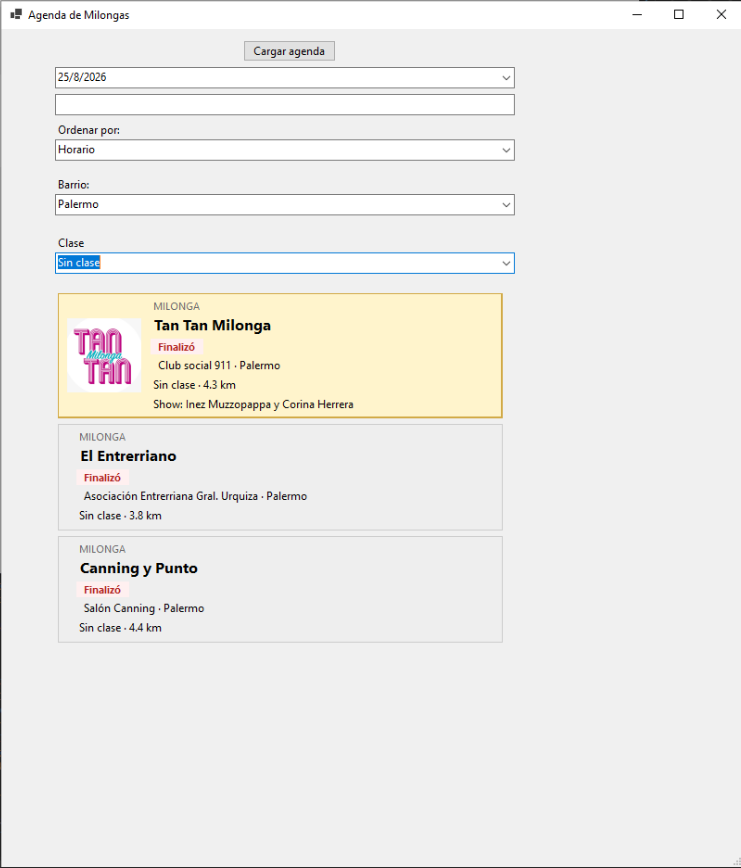
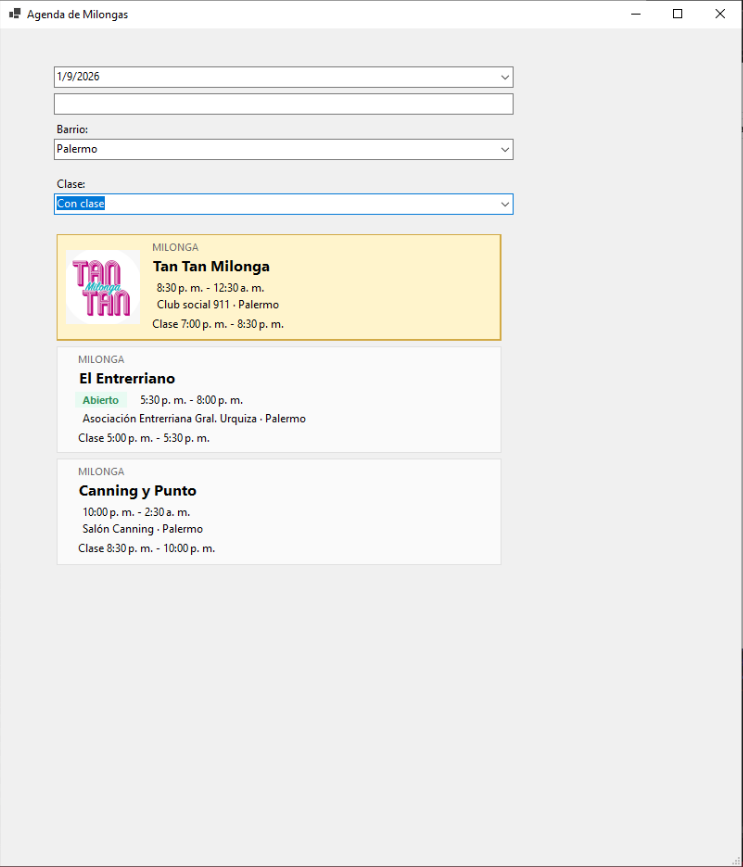
Actualiza documentación y capturas del proyecto

diff --git a/README.md b/README.md
@@ -1,8 +1,10 @@
 # Agenda de Milongas de Buenos Aires
 
-Aplicación de escritorio desarrollada en C# y .NET 8 para consultar, filtrar y explorar la agenda de milongas de Buenos Aires.
+Aplicación de escritorio desarrollada en **C# y .NET 8** para consultar, filtrar y explorar la agenda de milongas de Buenos Aires.
 
-La aplicación obtiene información pública desde Hoy Milonga, procesa los eventos disponibles y los presenta en una interfaz WinForms con carga progresiva, filtros, cálculo de distancias y vistas de detalle.
+La aplicación obtiene información pública desde **Hoy Milonga** mediante navegación automatizada y procesamiento de HTML, y presenta los eventos en una interfaz **Windows Forms** con carga automática y progresiva, filtros, vistas de detalle y cálculo de distancias.
+
+El proyecto busca centralizar la información útil de cada milonga en una interfaz simple, permitiendo consultar rápidamente qué eventos hay disponibles, dónde se realizan, sus horarios, clases y demás información relevante.
 
 ## Capturas
 
@@ -20,19 +22,24 @@ La aplicación obtiene información pública desde Hoy Milonga, procesa los even
 
 ## Funcionalidades
 
-- Carga progresiva de la agenda.
-- Navegación por fechas disponibles.
+- Carga automática de la agenda al abrir la aplicación.
+- Carga progresiva de los eventos para mostrar resultados sin esperar a que finalice todo el proceso.
+- Navegación por las fechas disponibles.
+- Selección automática del día actual al abrir la agenda.
 - Búsqueda por nombre, salón o barrio.
 - Filtro por barrio.
-- Filtro por eventos con o sin clase.
-- Ordenamiento por horario o distancia.
+- Filtro por eventos con clase o sin clase.
+- Ordenamiento cronológico automático de los eventos.
 - Identificación de eventos destacados, abiertos, finalizados y cancelados.
 - Visualización de modalidad de entrada y eventos especiales.
 - Vista detallada de cada milonga.
-- Extracción de dirección, coordenadas, organizadores, descripción, contactos, imágenes y mapa.
-- Caché local de detalles para reducir navegaciones repetidas y mejorar los tiempos de carga.
-- Precarga de datos de los días siguientes.
-- Manejo asincrónico de operaciones y cancelación de búsquedas anteriores.
+- Extracción de horarios, dirección, coordenadas, organizadores, descripción, contactos e imágenes.
+- Acceso al mapa y ubicación del evento.
+- Cálculo de distancia disponible en la vista de detalle.
+- Obtención de información detallada bajo demanda para evitar penalizar la carga inicial de la agenda.
+- Recuperación mediante reintentos ante determinadas redirecciones inesperadas del sitio fuente.
+- Manejo asincrónico de las operaciones de navegación y actualización de la interfaz.
+- Cancelación de búsquedas anteriores para evitar actualizaciones innecesarias.
 
 ## Tecnologías
 
@@ -45,11 +52,11 @@ La aplicación obtiene información pública desde Hoy Milonga, procesa los even
 
 ## Arquitectura
 
-La solución está dividida principalmente en dos proyectos:
+La solución está dividida principalmente en dos proyectos con responsabilidades diferenciadas.
 
 ### Milongas.App
 
-Aplicación WinForms responsable de la interfaz de usuario.
+Aplicación Windows Forms responsable de la interfaz de usuario y de la interacción con la agenda.
 
 Incluye:
 
@@ -57,23 +64,26 @@ Incluye:
 - tarjetas de eventos;
 - filtros;
 - búsqueda;
+- navegación por fechas;
 - vista de detalle;
 - estados de carga;
 - interacción del usuario.
 
 ### Milongas.Extractor
 
-Biblioteca de clases responsable de obtener, procesar y organizar los datos.
+Biblioteca de clases responsable de obtener, procesar y organizar los datos utilizados por la aplicación.
 
 Incluye:
 
-- navegación con Playwright;
-- extracción de HTML;
+- navegación automatizada con Playwright;
+- obtención de HTML dinámico;
 - parsing con HtmlAgilityPack;
-- modelos;
-- filtros;
+- extracción de agenda y detalles;
+- modelos de dominio;
+- filtrado y ordenamiento;
 - cálculo de distancias;
-- caché de detalles.
+- manejo de contextos de navegación;
+- caché local de datos de detalle.
 
 ## Flujo general
 
@@ -82,7 +92,7 @@ Hoy Milonga
     ↓
 BrowserService / Playwright
     ↓
-HtmlExtractor
+HtmlExtractor / MilongaDetalleExtractor
     ↓
 HoyMilongaService
     ↓
@@ -91,36 +101,85 @@ AgendaService / DistanciaService
 Milongas.App
 ```
 
-La agenda se obtiene progresivamente. El primer día puede mostrarse antes de completar la carga del resto, mientras los siguientes eventos se procesan y precargan.
+La agenda comienza a cargarse automáticamente al abrir la pantalla de milongas.
+
+Los eventos se obtienen progresivamente por fecha. Esto permite mostrar el primer conjunto de resultados mientras la aplicación continúa procesando el resto de los días disponibles.
+
+La información que solamente existe en la página individual de una milonga se obtiene bajo demanda cuando el usuario abre su vista de detalle.
 
 ## Desafíos técnicos
 
-Durante el desarrollo se abordaron varios problemas relacionados con la obtención y procesamiento de datos dinámicos:
+Durante el desarrollo se abordaron distintos problemas relacionados con la navegación web, la extracción de contenido dinámico y la actualización de una aplicación de escritorio.
 
-- **Carga progresiva:** la agenda se procesa por día para poder mostrar resultados antes de finalizar la carga completa.
-- **Contenido dinámico:** Playwright permite navegar e interactuar con el sitio antes de procesar el HTML con HtmlAgilityPack.
-- **Carga de detalles:** la información disponible únicamente en la página individual de cada evento se obtiene bajo demanda y se precarga cuando es posible.
-- **Caché local:** determinados datos de detalle se almacenan localmente para evitar navegaciones repetidas y reducir los tiempos de carga.
-- **Concurrencia y asincronismo:** las operaciones de navegación y actualización de la interfaz se coordinan de forma asincrónica para mantener la aplicación responsiva.
-- **Búsqueda con debounce:** las búsquedas de texto esperan brevemente antes de actualizar los resultados, evitando reprocesar la agenda por cada tecla presionada.
+### Carga progresiva
+
+La agenda se procesa por día para poder mostrar los primeros resultados antes de finalizar la obtención completa de los eventos disponibles.
+
+Esto reduce el tiempo percibido de espera y permite comenzar a utilizar la aplicación mientras continúa el procesamiento.
+
+### Contenido web dinámico
+
+El sitio fuente genera parte de su contenido dinámicamente.
+
+Para obtener los datos se utiliza **Microsoft Playwright**, que permite navegar e interactuar con el sitio como un navegador real antes de procesar el HTML resultante.
+
+Posteriormente, **HtmlAgilityPack** se utiliza para recorrer y extraer la información relevante del documento.
+
+### Extracción adaptable
+
+Los datos de la agenda y los detalles se extraen utilizando la estructura semántica disponible en el HTML.
+
+Durante el desarrollo fue necesario adaptar los extractores ante cambios en el formato de horarios, clases y direcciones del sitio fuente.
+
+### Carga de detalles bajo demanda
+
+Parte de la información de una milonga solamente se encuentra disponible en su página individual.
+
+En lugar de descargar todos esos detalles durante la carga inicial, la aplicación los obtiene cuando el usuario abre un evento.
+
+Esto evita realizar una gran cantidad de navegaciones innecesarias y permite mantener una carga inicial más rápida.
+
+### Manejo de redirecciones
+
+El sitio fuente puede redirigir de manera intermitente algunas solicitudes de detalle hacia una página de inicio de sesión.
+
+La aplicación detecta esta situación y puede recrear el contexto de navegación y volver a intentar la solicitud de forma controlada.
+
+Este mecanismo permite recuperarse de determinados fallos transitorios sin interrumpir inmediatamente la experiencia del usuario.
+
+### Concurrencia y asincronismo
+
+Las operaciones de navegación y actualización de la interfaz se coordinan de forma asincrónica para evitar bloquear innecesariamente la interfaz de Windows Forms.
+
+También se controla el acceso a determinadas operaciones del navegador para evitar navegaciones simultáneas incompatibles.
+
+### Búsqueda con debounce
+
+Las búsquedas de texto esperan brevemente antes de actualizar los resultados.
+
+Esto evita reprocesar la agenda por cada tecla presionada cuando el usuario está escribiendo una búsqueda.
 
 ## Distancias
 
-La aplicación calcula distancias utilizando coordenadas geográficas y la fórmula de Haversine.
+La aplicación puede calcular la distancia entre un punto de origen y las coordenadas geográficas de una milonga utilizando la **fórmula de Haversine**.
 
-Actualmente el punto de origen se encuentra configurado temporalmente con las coordenadas del Obelisco de Buenos Aires.
+Actualmente, el punto de origen se encuentra configurado temporalmente con las coordenadas del Obelisco de Buenos Aires.
 
-Una evolución futura del proyecto contempla utilizar la ubicación real del usuario.
+La distancia se muestra en la vista de detalle de cada evento.
+
+Una posible evolución del proyecto es utilizar la ubicación real del usuario como punto de origen.
 
 ## Caché
 
-Los datos de detalle que resultan costosos de obtener se almacenan localmente en:
+El proyecto incluye un mecanismo de caché local para información de detalle que puede resultar costosa de obtener mediante navegación.
+
+Los datos se almacenan localmente en:
 
 ```text
 detalles-cache.json
 ```
 
-Este archivo se genera en tiempo de ejecución y no forma parte del repositorio.
+El archivo se genera en tiempo de ejecución y no forma parte del repositorio.
 
 ## Ejecución
 
@@ -129,6 +188,9 @@ Este archivo se genera en tiempo de ejecución y no forma parte del repositorio.
 - Windows
 - .NET 8 SDK
 - Visual Studio 2022 o compatible
+- Navegadores de Microsoft Playwright
+
+### Pasos
 
 Después de clonar el repositorio:
 
@@ -136,16 +198,20 @@ Después de clonar el repositorio:
 2. Restaurar los paquetes NuGet.
 3. Asegurarse de que `Milongas.App` sea el proyecto de inicio.
 4. Compilar la solución.
-5. Ejecutar la aplicación.
+5. Verificar que Chromium para Playwright se encuentre instalado.
+6. Ejecutar la aplicación.
 
-Playwright necesita Chromium instalado para funcionar.
+Playwright necesita sus navegadores instalados para poder realizar la navegación automatizada.
 
-Si fuera necesario, instalar los navegadores de Playwright utilizando el script generado durante la compilación.
+Si fuera necesario, pueden instalarse utilizando el script de Playwright generado durante la compilación del proyecto.
 
 ## Limitaciones actuales
 
-- La aplicación depende de la estructura HTML de Hoy Milonga, por lo que cambios en el sitio pueden requerir actualizar los selectores.
-- La ubicación del usuario todavía no se obtiene automáticamente.
+- La aplicación depende de la estructura HTML de Hoy Milonga, por lo que cambios en el sitio pueden requerir actualizar los extractores o selectores.
+- Algunas solicitudes de detalle pueden ser redirigidas de manera intermitente por el sitio fuente.
+- La aplicación implementa reintentos para recuperarse de determinados casos, pero su funcionamiento continúa dependiendo del comportamiento del servicio externo.
+- La ubicación real del usuario todavía no se obtiene automáticamente.
+- El punto utilizado para calcular distancias está configurado temporalmente.
 - La versión actual está desarrollada como aplicación de escritorio para Windows.
 - La carga de datos depende de la disponibilidad y los tiempos de respuesta del sitio fuente.
 
@@ -160,10 +226,11 @@ Entre las posibles evoluciones del proyecto se encuentran:
 - cliente web o móvil;
 - soporte para Android e iOS;
 - tests automatizados;
-- logging estructurado.
+- logging estructurado;
+- mayor desacoplamiento entre la extracción de datos y la interfaz de usuario.
 
 ## Estado
 
 Proyecto en desarrollo activo.
 
-La versión actual funciona como MVP de escritorio y está siendo preparada para portfolio.
+La versión actual funciona como **MVP de escritorio** y forma parte de un portfolio de desarrollo de software.
